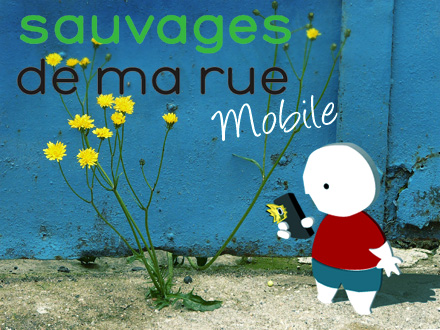
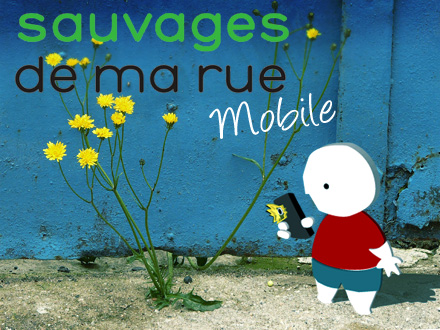
Modification image entete et media queries spinner

Changed region(s): [[0.0, 0.0, 1.0, 0.4242], [0.2068, 0.1818, 0.4136, 0.303]]

diff --git a/www/css/main.css b/www/css/main.css
@@ -67,8 +67,8 @@ font-weight: 200;
 		background-position: center center;
 		position: relative;
 		z-index: 2000;
-		height: 220px;
-		margin-top: 60%;
+		height: 220px !important;
+		margin-top: 33%;
 }
 #splash-screen{
 		width: 100%;
@@ -908,21 +908,23 @@ margin: 10px;
 	float: left;
   }*/
   .navbar-fixed-top, .navbar-fixed-bottom, .navbar-static-top {
-	margin-right: 0;
-	margin-left: 0;
+				margin-right: 0;
+				margin-left: 0;
   }
+		.loading-splash {
+				background-size: 110px;
+				height: 110px !important;
+				margin-top: 20%;
+		}
 }
+
+/*********************************************/
 .nav-list {
   padding-right: 0;
   padding-left: 0;
   margin: 0;
 }
-.loading-splash {
-		margin-top:50%;
-}
-.loading-splash,.loading {
-		background-size: 110px;
-}
+
 .navbar-fixed-top{
   position: fixed;
  /* background:whitesmoke;

diff --git a/www/index.html b/www/index.html
@@ -30,7 +30,7 @@
 
   <body class="pad-bottom-top" onload="onBody()">
 				<div class="loading-splash"></div>
-				<div id ="splash-screen"><img src="css/images/splash-screen_portrait-320x480.png"/></div>
+				<div id ="splash-screen"><img src="css/images/splash-screen_v05.jpg"/></div>
     <div>
 								<nav id="menu" class="hide">
 										<ul>
